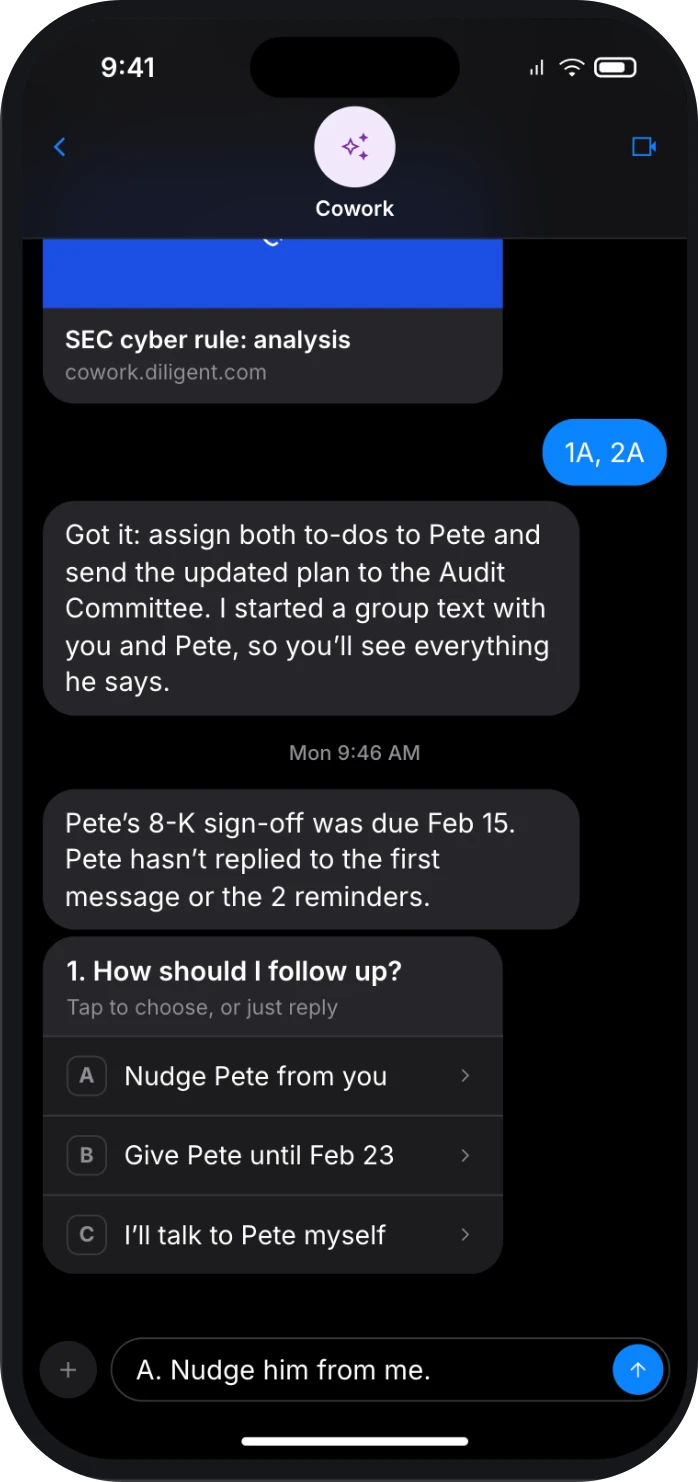
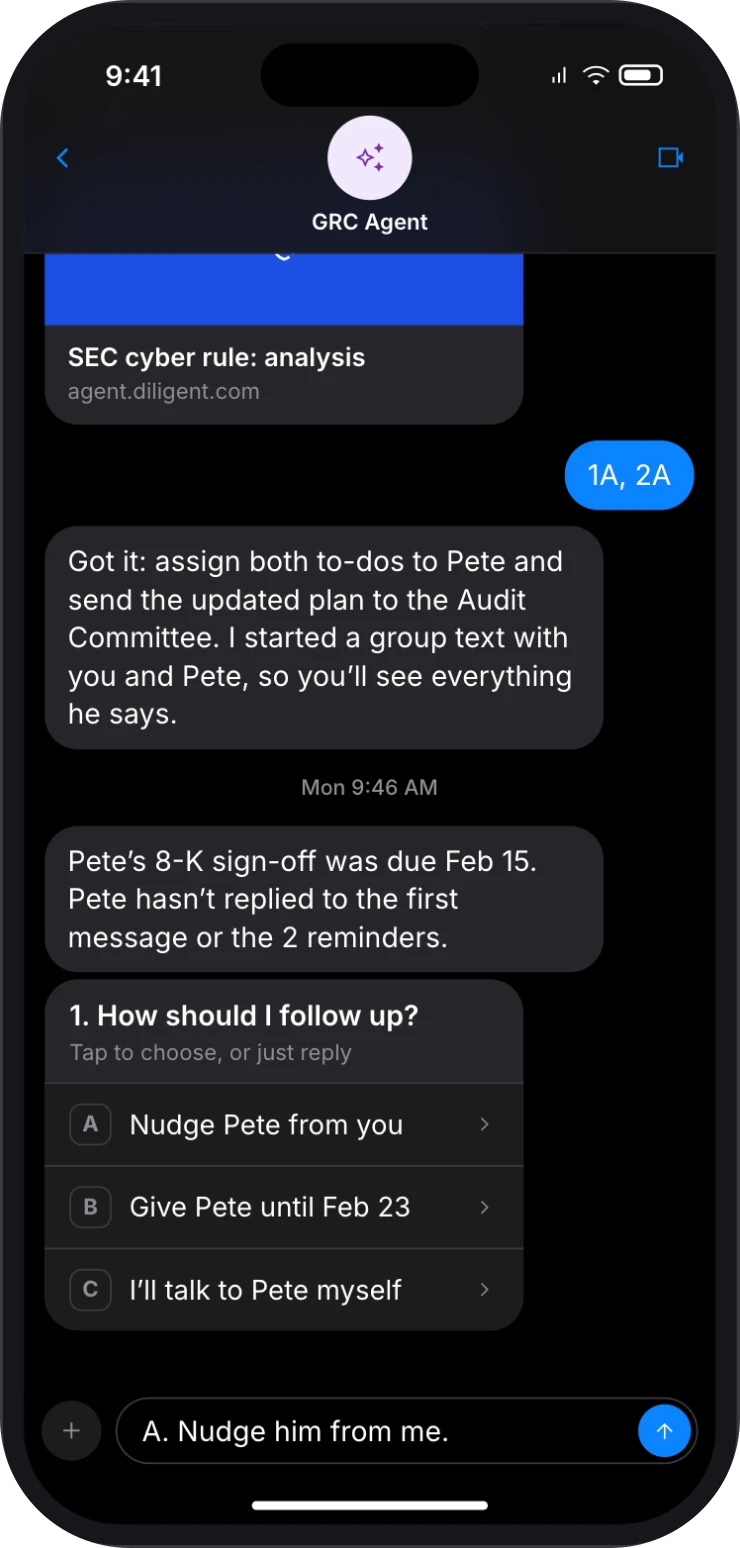
Phones: Cowork renamed to GRC Agent (recaptured from the mock); drop unused phone captures

diff --git a/app/(portfolio)/home.css b/app/(portfolio)/home.css
@@ -1862,17 +1862,17 @@ figure.media:has(.placeholder[style*="3 / 4"]) {
     0 0 0 1px oklch(1 0 0 / 0.08);
 }
 /* Phones are cut out, so they get a shadow that follows their outline, and sit side by side. */
-.split-shots[data-n="2"]:has(img[height="1482"]) {
+.split-shots[data-n="2"]:has(.shot-phone) {
   grid-template-columns: 1fr 1fr;
   align-items: start;
   gap: 1rem;
 }
-.split-shots img[height="1482"] {
+.split-shots .shot-phone {
   border-radius: 0;
   box-shadow: none;
   filter: drop-shadow(0 26px 30px oklch(0.12 0.05 8 / 0.5));
 }
-.split-shots img[height="1482"]:nth-child(2) {
+.split-shots .shot-phone:nth-child(2) {
   margin-top: 2.5rem;
 }
 

diff --git a/app/(portfolio)/page.tsx b/app/(portfolio)/page.tsx
@@ -149,7 +149,7 @@ function Showcase({ c, mcp, atlas, gate }: { c: Case; mcp: McpData; atlas: Atlas
             <p>{col.text}</p>
             <div className="split-shots" data-n={col.images.length}>
               {col.images.map((im) => (
-                <Pic key={im.src} {...img(im)} decoding="async" loading="lazy" />
+                <Pic key={im.src} {...img(im)} className={im.height > im.width * 1.5 ? "shot-phone" : undefined} decoding="async" loading="lazy" />
               ))}
             </div>
           </section>

diff --git a/content/cases/agentic-vision.md b/content/cases/agentic-vision.md
@@ -59,11 +59,11 @@ showcase:
           text: The same kind of agent works over iMessage. It asks the general counsel two questions with tap-to-choose answers, then comes back when a to-do goes overdue to ask how to follow up.
           images:
             - src: /protected/work/agentic/s-phone-questions.webp
-              width: 698
-              height: 1482
-              alt: "An iPhone text thread. Cowork, the AI assistant, asks the general counsel two questions with tap-to-choose answers: whether to set up and assign two to-dos to an associate, and whether the updated plan should go to the Audit Committee."
+              width: 740
+              height: 1548
+              alt: "An iPhone text thread. the GRC Agent asks the general counsel two questions with tap-to-choose answers: whether to set up and assign two to-dos to an associate, and whether the updated plan should go to the Audit Committee."
             - src: /protected/work/agentic/s-phone-nudge.webp
-              width: 698
-              height: 1482
-              alt: "Later in the same iPhone thread, Cowork reports that the associate missed an 8-K sign-off deadline and asks how to follow up, offering to nudge them, give more time, or leave it to the general counsel."
+              width: 740
+              height: 1548
+              alt: "Later in the same iPhone thread, the GRC Agent reports that the associate missed an 8-K sign-off deadline and asks how to follow up, offering to nudge them, give more time, or leave it to the general counsel."
 ---
